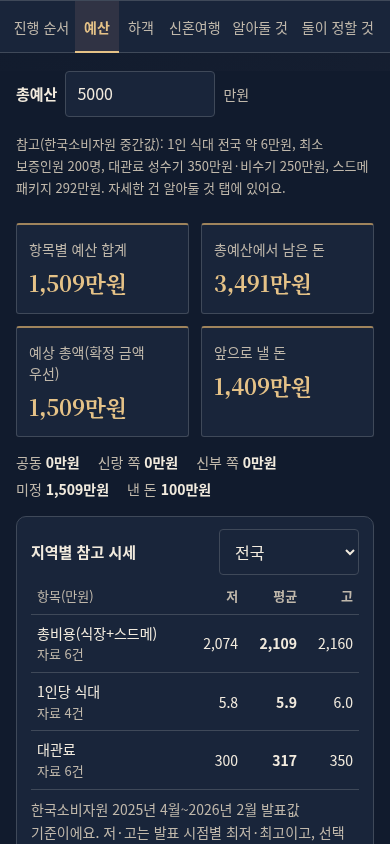
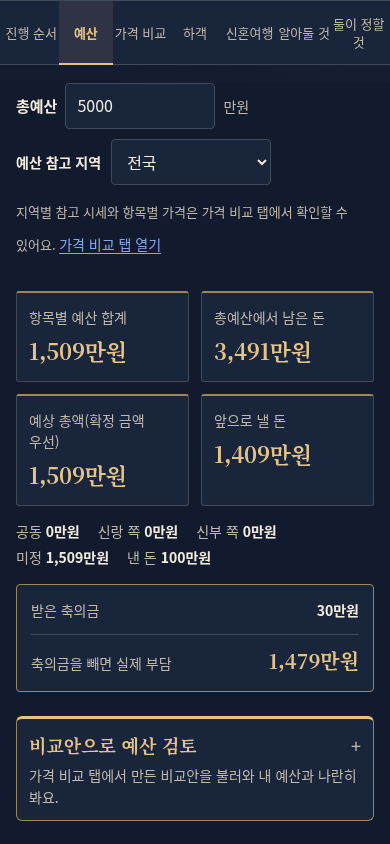
Polish price plan and budget UI for mobile

diff --git a/index.html b/index.html
@@ -271,14 +271,14 @@ select{width:auto;min-width:140px}
 .price-builder{margin:18px 0 22px;padding:14px;border:1px solid var(--gold-line);border-top:3px solid var(--gold);border-radius:6px;background:var(--surface)}
 .price-builder-head{display:flex;align-items:flex-start;justify-content:space-between;gap:12px}
 .price-builder h3{font-family:var(--serif);font-size:18px;margin:0}
-.price-eyebrow{display:block;margin-bottom:3px;color:var(--gold);font-size:11px;font-weight:700;letter-spacing:.12em}
+.price-eyebrow{display:block;margin-bottom:3px;color:var(--gold);font-size:13px;font-weight:700;letter-spacing:.1em}
 .price-builder-intro{margin:4px 0 0;color:var(--muted);font-size:13px;line-height:1.5}
 .price-group-tabs{display:grid;grid-template-columns:repeat(auto-fit,minmax(150px,1fr));gap:8px;margin:14px 0 8px}
 .price-group-tab{appearance:none;display:grid;align-content:center;gap:3px;min-width:0;min-height:68px;padding:8px 11px;border:1px solid var(--line);border-radius:8px;background:var(--surface);color:var(--ink);text-align:left;cursor:pointer}
 .price-group-tab[aria-pressed="true"]{border-color:var(--gold);background:var(--gold-soft)}
 .price-group-tab-head{display:flex;align-items:center;justify-content:space-between;gap:8px;min-width:0}
 .price-group-tab-head b{min-width:0;overflow:hidden;text-overflow:ellipsis;white-space:nowrap;font-size:13px}
-.price-group-tab-head small{flex:none;color:var(--muted);font-size:12px}
+.price-group-tab-head small{flex:none;color:var(--muted);font-size:13px}
 .price-group-tab strong{font-size:14px;font-variant-numeric:tabular-nums;line-height:1.35}
 .price-group-edit{display:flex;align-items:end;gap:8px;padding:10px 0;border-top:1px solid var(--line)}
 .price-group-edit .field{flex:1;min-width:0}
@@ -510,7 +510,7 @@ html{scroll-padding-top:calc(env(safe-area-inset-top,0px) + var(--tabs-height) +
 }
 @media (max-width:380px){.tab{font-size:13px}.tabs .wrap{padding-inline:4px}}
 @media (max-width:359px){.phase-head{padding-left:44px}.sum .v{font-size:22px}}
-@media (max-width:430px){.tabs .wrap{grid-template-columns:repeat(7,minmax(44px,1fr));padding-inline:4px}.tab{padding:6px 0 5px;font-size:clamp(10px,2.8vw,13px)}}
+@media (max-width:430px){.tabs .wrap{grid-template-columns:repeat(7,minmax(44px,1fr));padding-inline:4px}.tab{padding:6px 0 5px;font-size:13px;overflow-wrap:normal}}
 @media (max-width:380px){.price-builder{padding:12px}.price-builder-head{display:block}.price-builder-total{text-align:left;margin-top:8px}.price-builder-total span,.price-builder-total strong{display:inline-block;margin-right:6px}}
 @media (prefers-reduced-motion:reduce){html{scroll-behavior:auto}.strand i{transition:none}}
 
@@ -588,6 +588,122 @@ body{background:linear-gradient(155deg,var(--paper),var(--blush)) fixed;backgrou
 input[type=date],input[type=text],textarea,select{border-radius:4px}
 .calc,.calcval{border-radius:4px}
 @media (max-width:359px){.invitation{padding-inline:18px}.names{letter-spacing:0}.invitation .couple{margin-bottom:18px}.sum{padding-inline:10px}.sum .v{font-size:20px}.when{font-size:14px}}
+/* Price planning: the active plan leads; tools and references stay visible below it. */
+.price-builder{padding:0;border:0;background:none;display:grid;gap:16px}
+.price-builder-main{padding:16px;border:1px solid var(--gold-line);border-top:3px solid var(--gold);border-radius:5px;background:var(--surface)}
+.price-builder h3{font-size:22px;color:var(--gold)}
+.price-group-tabs{grid-template-columns:repeat(auto-fit,minmax(110px,1fr));margin:16px 0 12px}
+.price-group-tab{border-radius:4px;padding:10px;gap:6px}
+.price-group-tab-head{flex-wrap:wrap;gap:2px 8px}
+.price-group-tab-head b{white-space:normal;overflow:visible;font-size:14px}
+.price-group-tab strong{font-size:15px}
+.price-group-edit{padding:12px 0 0}
+.price-group-delete{font-size:13px;color:var(--muted)}
+.price-group-summary{border-radius:4px;padding:12px;gap:6px}
+.price-builder-main .price-group-summary>div:nth-child(2){padding-bottom:6px;margin-bottom:2px;border-bottom:1px solid var(--gold-line)}
+.price-builder-main .price-group-summary>div:nth-child(2) strong{font-family:var(--serif);font-size:21px;color:var(--gold)}
+.price-group-summary>div{display:grid;grid-template-columns:minmax(0,1fr) minmax(0,1fr);gap:8px}
+.price-group-summary strong{font-variant-numeric:tabular-nums;overflow-wrap:normal}
+.price-group-summary .pr-diff{justify-self:end}
+.price-builder-tools{display:grid;gap:10px;min-width:0}
+.price-builder-intro{margin:0;font-size:13px;line-height:1.75}
+.price-group-add{padding:12px 0;border-block:1px solid var(--line)}
+.price-builder-tools>.price-note,.price-builder-tools>.price-builder-empty{margin:0}
+/* These utility disclosures deliberately override the knowledge-card spacing. */
+details:is(.price-picked-details,.price-custom,.price-compare,.trash),
+.know details:is(.price-picked-details,.price-custom,.price-compare,.trash){padding:0;margin:0;border:1px solid var(--line);border-radius:5px;background:var(--surface)}
+.panel>details.trash{margin-top:24px}
+details:is(.price-picked-details,.price-custom,.price-compare,.trash)>summary{display:flex;align-items:center;justify-content:space-between;gap:12px;padding:12px;min-height:48px;list-style:none;color:var(--ink);font-size:14px;font-weight:600;text-decoration:none;line-height:1.6;cursor:pointer}
+details:is(.price-picked-details,.price-custom,.price-compare,.trash)>summary::-webkit-details-marker{display:none}
+details:is(.price-picked-details,.price-custom,.price-compare,.trash)>summary::after{content:"+";flex:none;color:var(--gold);font-size:18px;font-weight:400}
+details:is(.price-picked-details,.price-custom,.price-compare,.trash)[open]>summary{border-bottom:1px solid var(--line)}
+details:is(.price-picked-details,.price-custom,.price-compare,.trash)[open]>summary::after{content:"−"}
+details:is(.price-picked-details,.price-custom,.price-compare,.trash)>:not(summary){margin:0;padding:12px}
+.price-builder .price-picked,.price-builder .price-custom-list,.know .trash-list{padding:0 12px}
+.price-picked li{grid-template-columns:minmax(0,1fr) auto;gap:4px 8px;padding:12px 0}
+.price-picked li>span{grid-column:1/-1}
+.price-picked li>strong{text-align:left;max-width:none}
+.price-custom-item,.price-custom-add{gap:12px;grid-template-columns:minmax(0,1fr)}
+.price-custom-item>*,.price-custom-add>*{grid-column:1/-1}
+.price-custom-item .link{justify-self:end}
+.price-custom-item select,.price-custom-add select{font-size:14px;padding-inline:8px}
+.trash-list li,.know .trash-list li{padding-block:8px}
+.trash-list li:last-child,.price-picked li:last-child{border-bottom:0}
+.trash-list small{display:block}
+.trash-list button{flex:none}
+/* A checked box and gold edge mean included; neutral rows are available to add. */
+.price-pick-in,.price-pick.on .price-pick-in{display:grid;grid-template-columns:minmax(0,1fr);gap:8px;padding:8px 10px 12px;border:1px solid var(--line);border-radius:4px;background:var(--surface)}
+.price-pick.on .price-pick-in{border-color:var(--gold-line);border-left:3px solid var(--gold)}
+.price-pick .price-select-button{width:100%;padding:0;gap:10px;font-weight:600}
+.price-pick-amt{margin:0;text-align:left;font-size:15px;line-height:1.7}
+.price-mine{padding:10px;border:1px solid var(--gold-line);border-radius:4px;background:var(--paper);color:var(--gold);font-weight:600}
+.price-mine input{color:var(--ink);font-weight:600;border-color:var(--gold-line);background:var(--surface);font-variant-numeric:tabular-nums}
+.price-mine input::placeholder{font-weight:400}
+.price-pick-src{margin:0;font-size:13px;line-height:1.7}
+.price-extra-list .price-pick.on .price-mine{grid-row:3}
+.price-extra-list .price-pick.on .price-pick-src{grid-row:4}
+.price-extra-to{display:block;color:var(--muted)}
+.price-refs{margin:4px 0 0;padding-top:12px;border-top:1px solid var(--line)}
+.price-refs-title{color:var(--muted);line-height:1.7}
+.price-refs-title small{display:block}
+.know .price-ref-list{border-top:0}
+.know .price-ref-list li,.know .price-ref-list li.used{grid-template-columns:minmax(0,1fr);gap:4px;padding:10px 0;border-left:0;background:none}
+.price-ref-list strong{text-align:left;font-size:14px;font-weight:500}
+.price-ref-name{font-size:13px;color:var(--muted)}
+.price-ref-list small{font-size:13px;line-height:1.6}
+.price-badge,.price-ref-name em{display:inline-block;padding:2px 7px;border:1px solid var(--line);border-radius:4px;background:var(--paper);color:var(--muted);font-size:13px;font-style:normal;font-weight:500;line-height:1.5;vertical-align:baseline}
+.price-badge.direct,.price-ref-name em.price-ref-base{color:var(--gold);border-color:var(--gold-line);background:var(--gold-soft)}
+.price-ref-name em:not(.price-ref-base){color:var(--chung);border-color:var(--chung);background:var(--chung-soft)}
+/* Status shape and placement stay the same for amounts, ranges, and missing values. */
+.price-state,.pr-row-diff,.pr-diff{display:inline-block;padding:3px 8px;border:1px solid var(--line);border-radius:4px;background:var(--paper);font-size:13px;font-weight:500;line-height:1.6;color:var(--muted);font-variant-numeric:tabular-nums}
+.pr-row-diff.over,.pr-diff.over{color:var(--hong);border-color:var(--hong);background:var(--surface)}
+.pr-row-diff.room,.pr-diff.room{color:var(--chung);border-color:var(--chung);background:var(--surface)}
+.pr-row-diff.even,.pr-diff.even,.pr-row-diff.mid,.pr-diff.mid{color:var(--gold);border-color:var(--gold-line);background:var(--gold-soft)}
+.plan-review{padding-inline:12px}
+.pr-body{gap:16px}
+.pr-row>summary{grid-template-columns:minmax(0,1fr);gap:8px;padding:12px}
+.pr-row-name{padding-right:24px;font-size:15px;line-height:1.7}
+.pr-row-diff{justify-self:start;text-align:left}
+.pr-row-nums{display:grid;gap:4px;grid-column:1;line-height:1.6}
+.pr-row-nums>span:not(.sr){display:grid;grid-template-columns:4.5em minmax(0,1fr);gap:8px}
+.pr-row-nums strong{text-align:right;color:var(--ink);font-weight:500;overflow-wrap:normal}
+.pr-lines li{display:grid;gap:4px}
+.pr-lines strong{max-width:none;text-align:right}
+.pr-pick>summary{flex-wrap:wrap;padding-block:10px;gap:2px 10px}
+.pr-pick>summary span{flex-basis:100%}
+.pr-sum>div{grid-template-columns:minmax(0,1fr) minmax(0,1fr)}
+.pr-sum .pr-diff{justify-self:end}
+.pr-row-body .detail-actions>.btn{width:100%;line-height:1.6}
+/* Backup and confirmation use the same paper, fine borders, and numeric alignment. */
+#backupSec{border:1px solid var(--gold-line);border-top:3px solid var(--gold);border-radius:4px;padding:14px 12px;gap:14px;background:var(--paper)}
+#backupSec h3{font-family:var(--serif);color:var(--gold);font-size:18px}
+#backupSec .dlg-actions{display:grid;grid-template-columns:repeat(2,minmax(0,1fr))}
+#backupSec .dlg-actions:last-of-type{grid-template-columns:minmax(0,1fr)}
+#backupSec .btn{padding-inline:8px;line-height:1.6}
+#backupSec textarea{font-size:16px;min-height:110px}
+#backupSec input[type=file]{color:var(--muted);font-size:13px}
+#backupSec input[type=file]::file-selector-button{font:inherit;min-height:44px;margin-right:8px;padding:8px;border:1px solid var(--gold-line);border-radius:4px;background:var(--surface);color:var(--ink);cursor:pointer}
+.qitem .price-confirm{border-color:var(--gold-line);background:var(--paper);padding:12px}
+.q-changes{list-style:none;padding:0;margin:12px 0;font-variant-numeric:tabular-nums}
+.q-changes li{display:grid;grid-template-columns:minmax(0,1fr) auto;gap:4px 8px;padding:10px 0;border-block:1px solid var(--line)}
+.q-changes li+li{border-top:0}
+.q-changes li>span:first-child{grid-column:1/-1;color:var(--muted)}
+.q-change-arrow{color:var(--gold)}
+.q-changes strong{text-align:right;overflow-wrap:normal}
+.who.net{display:grid;grid-template-columns:minmax(0,1fr);gap:12px;margin-top:16px;padding:14px;border:1px solid var(--gold-line);border-radius:4px;background:var(--surface)}
+.who.net>span{display:flex;justify-content:space-between;align-items:baseline;gap:12px}
+.who.net>span:last-child{padding-top:10px;border-top:1px solid var(--line)}
+.who.net b{flex:none;font-variant-numeric:tabular-nums}
+.who.net>span:last-child b{font-family:var(--serif);font-size:20px;color:var(--gold)}
+@media (max-width:380px){
+  .price-builder{padding:0}.price-builder-main{padding:12px}
+  .price-group-add{grid-template-columns:minmax(0,1fr)}
+  .price-group-add .btn{justify-self:end}
+  .pr-row-body .bedit.two{grid-template-columns:minmax(0,1fr)}
+  .price-mine{padding:8px}
+  .price-mine input{font-size:15px;padding-inline:8px}
+  #backupSec{padding-inline:10px}
+}
 </style>
 </head>
 <body>
@@ -609,7 +725,7 @@ input[type=date],input[type=text],textarea,select{border-radius:4px}
       <button class="tab" role="tab" id="tab-budget" aria-controls="panel-budget" data-tab="budget" type="button">예산</button>
       <button class="tab" role="tab" id="tab-price" aria-controls="panel-price" data-tab="price" type="button">가격 비교</button>
       <button class="tab" role="tab" id="tab-guest" aria-controls="panel-guest" data-tab="guest" type="button">하객</button>
-      <button class="tab" role="tab" id="tab-honey" aria-controls="panel-honey" data-tab="honey" type="button">신혼여행</button>
+      <button class="tab" role="tab" id="tab-honey" aria-controls="panel-honey" data-tab="honey" type="button">신혼<wbr>여행</button>
       <button class="tab" role="tab" id="tab-know" aria-controls="panel-know" data-tab="know" type="button">알아둘 것</button>
       <button class="tab" role="tab" id="tab-talk" aria-controls="panel-talk" data-tab="talk" type="button">둘이 정할 것</button>
     </div>
@@ -1810,7 +1926,7 @@ function priceExtraItemHTML(it, group){
   var on = !!group.items[it.id], own = priceOwn(group, it);
   return '<li class="price-pick'+(on ? ' on' : '')+'"><div class="price-pick-in">' +
     '<button class="price-select-button" type="button" role="checkbox" aria-checked="'+(on?'true':'false')+'" aria-label="'+esc(group.name)+'에 '+esc(it.name)+' 담기" data-act="price-toggle" data-id="'+it.id+'" data-group="'+group.id+'" data-fk="price-select-'+it.id+'"'+dis()+'><span class="price-select-icon" aria-hidden="true"></span><span>'+esc(it.name)+' 담기</span></button>' +
-    (on ? '<strong class="price-pick-amt">'+(own != null ? '내 금액 '+fmtMan(own) : '금액 미입력')+'</strong>' : '') +
+    (on ? '<strong class="price-pick-amt">'+(own != null ? '<span class="price-badge direct">내 금액</span> '+fmtMan(own) : '<span class="price-state none">금액 미입력</span>')+'</strong>' : '') +
     '<p class="price-pick-src">'+esc(it.note)+' <span class="price-extra-to">예산: '+esc(it.budget.map(budgetName).join(' · '))+'</span></p>' +
     (on ? '<label class="field price-mine">이 비교안 금액(만원)<input type="text" inputmode="numeric" value="'+(own != null ? own : '')+'" placeholder="견적이나 예상 금액" data-price-mine="'+it.id+'" data-group="'+group.id+'" data-fk="price-mine-'+it.id+'"'+dis()+'></label>' : '') +
     '</div></li>';
@@ -1860,7 +1976,7 @@ function pricePickRow(item, group, region, basis){
   if (line) {
     var own = priceOwn(group, item), hint = item.perHead ? Math.round(line.refUnit * 10000).toLocaleString('ko-KR')
       : (Math.round(line.ref.low) === Math.round(line.ref.high) ? Math.round(line.ref.low) : Math.round(line.ref.low)+'~'+Math.round(line.ref.high));
-    h += '<strong class="price-pick-amt">'+(line.mine ? '내 금액 ' : '참고 ')+esc(priceAmountText(line))+'</strong>' +
+    h += '<strong class="price-pick-amt">'+(line.mine ? '<span class="price-badge direct">내 금액</span> ' : '<span class="price-badge">참고</span> ')+esc(priceAmountText(line))+'</strong>' +
       '<label class="field price-mine">'+(item.perHead ? '이 비교안 1인 금액(원)' : '이 비교안 금액(만원)')+'<input type="text" inputmode="numeric" value="'+(own != null ? own : '')+'" placeholder="참고 '+hint+'" data-price-mine="'+item.id+'" data-group="'+group.id+'" data-fk="price-mine-'+item.id+'"'+dis()+'></label>';
     // 참고 시세는 고르는 칸이 아니라 펼쳐 보여 줘요. 금액을 비우면 지역에 맞춰 정해진 '기준' 값으로 계산해요.
     var ids = priceOptionIds(item, region, line.opt.id);
@@ -1921,24 +2037,26 @@ function pricePlanHTML(){
     return '<li><span><b>'+esc(PRICE_SECS[line.item.sec])+' · '+esc(line.item.name)+'</b><small>'+(line.mine ? '직접 넣은 금액'+(line.ref ? ' · 참고 시세 '+esc(priceRefText(line)) : '') : line.opt ? '참고 시세 · '+esc(priceOptText(line.opt, region)) : '금액을 넣어 주세요')+'</small></span><strong>'+esc(priceAmountText(line))+'</strong><button class="price-picked-remove" type="button" aria-label="'+esc(active.name)+'에서 '+esc(line.item.name)+' 빼기" data-act="'+(line.item.custom ? 'price-custom-del' : 'price-remove')+'" data-id="'+line.item.id+'" data-group="'+active.id+'" data-fk="price-remove-'+line.item.id+'"'+dis()+'>빼기</button></li>';
   }).join('');
   if (ui.openKnow['price-picked'] == null) ui.openKnow['price-picked'] = false;
-  return '<section class="price-builder" aria-labelledby="price-builder-title"><div class="price-builder-head"><div><span class="price-eyebrow">MY PRICE PLAN</span><h3 id="price-builder-title">비교안 만들기</h3>' +
-    '<p class="price-builder-intro">아래 가격표에서 항목을 담고, 받은 견적이나 예상 금액을 직접 넣으세요. 비워 둔 항목은 참고 시세로 계산해요. 참고 시세는 한국소비자원 조사의 중간값·평균이라 실제 견적은 업체마다 달라요. 부케·축가 사례처럼 가격표에 없는 비용은 아래 ‘그 밖에 드는 비용’에서 담거나 여기서 직접 추가하세요.</p></div></div>' +
+  return '<section class="price-builder" aria-labelledby="price-builder-title"><div class="price-builder-main"><div class="price-builder-head"><div><span class="price-eyebrow">MY PRICE PLAN</span><h3 id="price-builder-title">비교안 만들기</h3>' +
+    '</div></div>' +
     '<div class="price-group-tabs" role="group" aria-label="비교안 선택">'+tabs+'</div>' +
     '<div class="price-group-edit"><label class="field">비교안 이름<input type="text" value="'+esc(active.rawName)+'" maxlength="30" placeholder="'+esc(active.name)+'" data-price-group-name="'+active.id+'" data-fk="price-group-name-'+active.id+'"'+dis()+'></label>' +
     (ask ? '' : '<button class="link price-group-delete" type="button" data-act="price-group-delete-ask" data-id="'+active.id+'" data-fk="price-group-delete-'+active.id+'"'+(groups.length === 1?' disabled':'')+dis()+'>비교안 삭제</button>') + '</div>' +
     (ask ? '<div class="price-confirm" role="group" aria-label="비교안 삭제 확인"><p>‘'+esc(active.name)+'’ 비교안을 지울까요? 담은 항목도 함께 지워져요.</p><div class="detail-actions">' +
       '<button class="btn" type="button" data-act="price-group-delete-cancel" data-fk="price-group-delete-cancel">취소</button>' +
       '<button class="btn primary" type="button" data-act="price-group-delete" data-id="'+active.id+'" data-fk="price-group-delete-yes"'+dis()+'>지우기</button></div></div>' : '') +
-    '<div class="price-group-add" id="priceGroupAddForm"><label class="sr" for="priceGroupAddName">새 비교안 이름</label><input type="text" id="priceGroupAddName" maxlength="30" placeholder="예: 서울 예식안" data-fk="price-group-add-name"'+dis()+'><button class="btn" type="button" data-act="price-group-add" data-fk="price-group-add"'+dis()+'>비교안 추가</button></div>' +
     '<div class="price-group-summary"><div><span>담긴 항목</span><strong>'+chosen.length+'개</strong></div><div><span>비교안 합계</span><strong>'+fmtPriceRange(total)+'</strong></div>' +
       (chosen.length ? '<div><span>직접 넣은 금액 / 참고 시세</span><strong>'+mineN+'개 / '+(chosen.length - mineN - noPriceN)+'개</strong></div>' : '') +
-      (noPriceN ? '<div><span>금액 미입력 (합계에서 빠짐)</span><strong class="pr-diff over">'+noPriceN+'개</strong></div>' : '') + '</div>' +
+      (noPriceN ? '<div><span>금액 미입력 (합계에서 빠짐)</span><strong class="pr-diff none">'+noPriceN+'개</strong></div>' : '') + '</div>' +
+    '</div><div class="price-builder-tools">' +
+    '<p class="price-builder-intro">아래 가격표에서 항목을 담고, 받은 견적이나 예상 금액을 직접 넣으세요. 비워 둔 항목은 참고 시세로 계산해요. 참고 시세는 한국소비자원 조사의 중간값·평균이라 실제 견적은 업체마다 달라요. 부케·축가 사례처럼 가격표에 없는 비용은 아래 ‘그 밖에 드는 비용’에서 담거나 여기서 직접 추가하세요.</p>' +
+    '<div class="price-group-add" id="priceGroupAddForm"><label class="sr" for="priceGroupAddName">새 비교안 이름</label><input type="text" id="priceGroupAddName" maxlength="30" placeholder="예: 서울 예식안" data-fk="price-group-add-name"'+dis()+'><button class="btn" type="button" data-act="price-group-add" data-fk="price-group-add"'+dis()+'>비교안 추가</button></div>' +
     priceNotesHTML(active, chosen, region, 'price') + priceCustomHTML(active) +
     (chosen.length ? '<details class="price-picked-details" data-k="price-picked"'+(ui.openKnow['price-picked'] ? ' open' : '')+'><summary>담긴 항목 보기 ('+chosen.length+')</summary><ul class="price-picked">'+rowsHTML+'</ul></details>' : '<p class="price-builder-empty">아래 가격표의 항목마다 있는 ‘담기’를 누르면 이 비교안에 들어가요. 담은 뒤 받은 금액을 직접 넣으세요.</p>') +
     priceCompareHTML(groups, active.id) +
     trashHTML('price', '지운 비교안·직접 추가 항목', deletedOf((state.pricePlan || {}).groups, 'name', 'plan', '비교안')
       .concat(deletedOf((((state.pricePlan || {}).groups || {})[active.id] || {}).custom, 'name', 'pcustom', active.name+'의 직접 추가 항목').map(function(e){ e.group = active.id; return e; }))) +
-    '</section>';
+    '</div></section>';
 }
 function cmpRow(t, pre, post){
   return '<div class="cmp-row"><h4>'+t+'</h4><p class="pre"><span class="tag">신고 전</span> '+pre+'</p><p class="post"><span class="tag">신고 후</span> '+post+'</p></div>';
@@ -2247,7 +2365,7 @@ function planTargetHTML(t){
   var names = t.rows.map(function(r){ return r.name; }).join(' · ');
   var h = '<li><details class="pr-row" data-k="'+k+'"'+(open ? ' open' : '')+'><summary><span class="pr-row-name">'+esc(names)+(t.rows.some(function(r){ return r.hidden; }) ? ' <small>(예산에서 숨김)</small>' : '')+'</span>' +
     '<span class="pr-row-diff '+(d ? d.cls : 'none')+'">'+(d ? d.text : (t.priced ? '예산 미입력' : '금액 미입력'))+'</span>' +
-    '<span class="pr-row-nums">'+(t.allRef ? '참고 ' : '비교안 ')+fmtPriceRange(t.ref)+(t.priced ? '' : ' + 미입력')+' · 내 예산 '+(t.budgetDone ? fmtMan(t.mine) : (t.mine ? fmtMan(t.mine)+'(일부)' : '-'))+'</span></summary><div class="pr-row-body">';
+    '<span class="pr-row-nums"><span><span>'+(t.allRef ? '참고 ' : '비교안 ')+'</span><strong>'+fmtPriceRange(t.ref)+(t.priced ? '' : ' + 미입력')+'</strong></span><span class="sr"> · </span><span><span>내 예산 </span><strong>'+(t.budgetDone ? fmtMan(t.mine) : (t.mine ? fmtMan(t.mine)+'(일부)' : '-'))+'</strong></span></span></summary><div class="pr-row-body">';
   h += '<ul class="pr-lines">' + t.lines.map(function(l){ return '<li><span>'+esc(PRICE_SECS[l.item.sec])+' · '+esc(l.item.name)+'<small>'+(l.mine ? '직접 넣은 금액'+(l.ref ? ' · 참고 시세 '+esc(priceRefText(l)) : '') : l.opt ? '참고 시세 · '+esc(l.opt.label+' '+l.opt.value)+' · '+esc(l.opt.source) : '가격 비교 탭에서 금액을 넣어 주세요')+'</small></span><strong>'+esc(priceAmountText(l))+'</strong></li>'; }).join('') + '</ul>';
   if (t.lines.length > 1 && priceOverlaps(t.lines).length) h += '<p class="price-note">묶음 가격과 그 안에 든 항목이 함께 반영돼 시세가 겹칠 수 있어요.</p>';
   t.rows.forEach(function(r){
@@ -2291,7 +2409,7 @@ function planReviewHTML(){
     data.lines.map(function(l){
       var on = !!group.apply[l.item.id], to = l.item.budget.map(budgetName).join(' · ');
       return '<li><button class="price-select-button pr-apply" type="button" role="checkbox" aria-checked="'+(on ? 'true' : 'false')+'" data-act="b-plan-apply" data-group="'+group.id+'" data-id="'+l.item.id+'" data-fk="pr-apply-'+l.item.id+'"'+dis()+'><span class="price-select-icon" aria-hidden="true"></span>' +
-        '<span><span class="sr">예산에 반영: </span><b>'+esc(PRICE_SECS[l.item.sec])+' · '+esc(l.item.name)+'</b><small>'+esc(priceAmountText(l))+(l.mine ? ' (직접)' : l.noPrice ? '' : ' (참고)')+' → '+esc(to)+'</small></span></button></li>';
+        '<span><span class="sr">예산에 반영: </span><b>'+esc(PRICE_SECS[l.item.sec])+' · '+esc(l.item.name)+'</b><small>'+esc(priceAmountText(l))+(l.mine ? ' <span class="price-badge direct">(직접)</span>' : l.noPrice ? '' : ' <span class="price-badge">(참고)</span>')+' → '+esc(to)+'</small></span></button></li>';
     }).join('') + '</ul>' +
     (Store.readOnly ? '' : '<div class="detail-actions"><button class="btn" type="button" data-act="b-plan-apply-all" data-group="'+group.id+'" data-v="1">모두 반영</button><button class="btn" type="button" data-act="b-plan-apply-all" data-group="'+group.id+'" data-v="0">모두 빼기</button>' +
       '<button class="link" type="button" data-act="goto-price" data-group="'+group.id+'">가격 비교에서 고치기</button></div>') + '</details>';
@@ -2325,7 +2443,7 @@ function quoteApplyChanges(q){
 }
 function quoteConfirmHTML(q){
   return '<div class="price-confirm" role="group" aria-label="예산 바꾸기 확인"><p>이 견적을 넣으면 예산이 이렇게 바뀌어요.</p><ul class="q-changes">' +
-    quoteApplyChanges(q).map(function(c){ return '<li>'+esc(c)+'</li>'; }).join('') + '</ul><p class="tip">확정 금액과 낸 돈은 그대로예요.</p>' +
+    quoteApplyChanges(q).map(function(c){ var parts = c.split(' → '); return '<li><span>'+esc(parts[0])+'</span><span class="q-change-arrow"> → </span><strong>'+esc(parts[1])+'</strong></li>'; }).join('') + '</ul><p class="tip">확정 금액과 낸 돈은 그대로예요.</p>' +
     '<div class="detail-actions"><button class="btn" type="button" data-act="q-apply-cancel" data-id="'+q.id+'">취소</button><button class="btn primary" type="button" data-act="q-apply-yes" data-id="'+q.id+'">바꾸기</button></div></div>';
 }
 function quoteHTML(){

diff --git a/docs/screenshots/README.md b/docs/screenshots/README.md
@@ -1,12 +1,15 @@
-# v24 디자인 전후 비교
+# 가격 비교·예산 UI 전후 비교
 
-- 기준: 최신 main `8f253f3`, 변경 후: `design/wedding-ceremony`.
-- 390 × 844px, Chromium, 한국어, Asia/Seoul, 라이트·다크 각 5장(총 20장).
-- `hero`: 첫 화면. `timeline`, `budget`, `guest`, `know`: 해당 탭을 선택하고 탭 메뉴까지 스크롤한 화면.
-- 동일한 시험 데이터(준호·민지, 2027-05-08 12:30)와 고정 시각(2026-10-06 12:00 KST)을 사용해 D-day와 내용이 동일하다.
-- Google Fonts 요청은 기존 시험 도우미가 비워 오프라인 대체 명조·고딕으로 촬영한다. 실제 앱의 Google Fonts Hahmlet·IBM Plex Sans KR 설정은 유지한다.
+- 기준: 최신 main `e05ed3c`, 변경 후: `design/price-budget-ui`.
+- 390 × 844px, Chromium, 한국어, Asia/Seoul, 라이트·다크 각 15장. 전후 총 60장.
+- `hero`, `timeline`, `budget`, `guest`, `know`는 기존 시험 데이터(준호·민지, 2027-05-08 12:30)를 사용한다. 첫 화면은 맨 위, 탭 화면은 탭 메뉴까지 스크롤해 촬영한다.
+- 추가 화면은 `tests/app.spec.cjs`의 `PLAN_SEED`와 같은 비교안 두 개를 바탕으로 한 `priceBudgetSeed()`를 쓴다. 서울 강남 지역, 직접 금액과 참고 시세, 미입력 금액, 직접 추가 항목, 지운 항목을 함께 넣는다. 두 단계 모두 같은 시드를 사용한다.
+- 예산 검토는 `budget.planGroup='pa'`로 비교안을 고르고 `apply`를 설정한 상태다. 대관료 초과, 식대 일치, 스드메 여유, 예산 미입력, 금액 미입력을 함께 보여 준다. 예산에 금액을 자동으로 덮어쓰는 조작은 하지 않는다.
+- `price-plan`은 비교안 카드 위쪽, `price-tools`는 같은 비교안의 네 가지 접기 도구, `price-custom`은 직접 추가를 펼친 화면이다. `price-pick`은 대관료 담기 줄, `price-extra`는 꽃·부케 분류를 펼친 화면이다.
+- `budget-plan`과 `budget-plan-rows`는 예산 검토 상단과 항목별 목록을 각각 보여 준다. `quote-confirm`은 기존 예산과 다른 견적을 넣기 전에 나타나는 확인 상태다. `backup`은 공유 창을 열고 백업 칸으로 스크롤한 상태다.
+- 고정 시각은 2026-10-06 12:00 KST. Google Fonts 요청은 기존 시험 도우미가 비워 오프라인 대체 명조·고딕으로 촬영한다. 실제 앱의 Google Fonts Hahmlet·IBM Plex Sans KR 설정은 유지한다.
 - 꽃잎 움직임은 촬영 시 비활성화한다. 동작 줄이기 설정과 애니메이션 속성은 별도 시험으로 확인한다.
-- 재현: `node tests/server.cjs` 실행 후 `npm run screenshots -- before`, `npm run screenshots -- after`.
+- 재현: `node tests/server.cjs` 실행 후 `npm run screenshots -- before`, `npm run screenshots -- after`. `before`는 작업 파일 대신 `git show main:index.html`을 사용한다.
 
 | 화면 | 라이트 전 | 라이트 후 | 다크 전 | 다크 후 |
 | --- | --- | --- | --- | --- |
@@ -15,3 +18,13 @@
 | 예산 | [전](before-light-budget.png) | [후](after-light-budget.png) | [전](before-dark-budget.png) | [후](after-dark-budget.png) |
 | 하객 | [전](before-light-guest.png) | [후](after-light-guest.png) | [전](before-dark-guest.png) | [후](after-dark-guest.png) |
 | 알아둘 것 | [전](before-light-know.png) | [후](after-light-know.png) | [전](before-dark-know.png) | [후](after-dark-know.png) |
+| 비교안 카드: 제목·입력·요약 | [전](before-light-price-plan.png) | [후](after-light-price-plan.png) | [전](before-dark-price-plan.png) | [후](after-dark-price-plan.png) |
+| 비교안: 담긴 항목·직접 추가·나란히 보기·지운 항목 | [전](before-light-price-tools.png) | [후](after-light-price-tools.png) | [전](before-dark-price-tools.png) | [후](after-dark-price-tools.png) |
+| 가격표에 없는 항목 직접 추가 | [전](before-light-price-custom.png) | [후](after-light-price-custom.png) | [전](before-dark-price-custom.png) | [후](after-dark-price-custom.png) |
+| 가격표 항목 담기·직접 금액·참고 시세 | [전](before-light-price-pick.png) | [후](after-light-price-pick.png) | [전](before-dark-price-pick.png) | [후](after-dark-price-pick.png) |
+| 그 밖에 드는 비용: 꽃·부케 | [전](before-light-price-extra.png) | [후](after-light-price-extra.png) | [전](before-dark-price-extra.png) | [후](after-dark-price-extra.png) |
+| 비교안으로 예산 검토: 선택·합계 | [전](before-light-budget-plan.png) | [후](after-light-budget-plan.png) | [전](before-dark-budget-plan.png) | [후](after-dark-budget-plan.png) |
+| 비교안으로 예산 검토: 항목별 금액·상태 | [전](before-light-budget-plan-rows.png) | [후](after-light-budget-plan-rows.png) | [전](before-dark-budget-plan-rows.png) | [후](after-dark-budget-plan-rows.png) |
+| 예산 요약·축의금을 뺀 실제 부담 | [전](before-light-budget-net.png) | [후](after-light-budget-net.png) | [전](before-dark-budget-net.png) | [후](after-dark-budget-net.png) |
+| 식장 견적: 예산 바꾸기 확인 | [전](before-light-quote-confirm.png) | [후](after-light-quote-confirm.png) | [전](before-dark-quote-confirm.png) | [후](after-dark-quote-confirm.png) |
+| 공유 창: 데이터 백업·옮기기 | [전](before-light-backup.png) | [후](after-light-backup.png) | [전](before-dark-backup.png) | [후](after-dark-backup.png) |

diff --git a/docs/CHANGELOG.md b/docs/CHANGELOG.md
@@ -1,5 +1,13 @@
 # 바뀐 내용
 
+## 가격 비교·예산 화면 정리 (Codex)
+- 비교안 선택·이름·합계는 핵심 카드에 모으고, 설명과 새 비교안 추가·접기 도구는 아래로 구분했어요. 기존 정보는 숨기지 않았어요.
+- 직접 추가·담긴 항목·나란히 보기·지운 항목의 접기 모양을 통일했어요. 담기는 체크와 금색 선으로 표시하고, 직접 금액 입력을 참고 시세보다 강조해요.
+- 예산 검토의 긴 항목명에 한 줄 폭을 주고, 비교안 금액과 내 예산은 같은 오른쪽 기준선에 맞췄어요. 초과·여유·일치·미입력 상태와 참고 배지의 모양을 정리했어요.
+- 320px 입력칸을 넓히고 탭과 수정 대상의 보조 글자를 13px 이상으로 맞췄어요. 탭 이름과 순서는 유지하며, 긴 이름은 같은 줄의 탭 버튼 안에서 두 줄로 표시해요.
+- 백업 칸, 식장 견적의 바꾸기 확인, 축의금을 뺀 실제 부담도 종이색·금색 선·명조 제목에 맞췄어요.
+- 화면 문구·기능·저장 구조·이벤트 표식·가격 데이터는 그대로예요. 390px 라이트·다크 전후 화면은 `docs/screenshots/README.md`에 모았어요.
+
 ## 백업·되살리기·빠른 화면 (Claude)
 - 데이터 백업·옮기기: 공유 창에서 입력한 내용 전체를 파일(`marry-me-backup-날짜.json`)로 저장하거나 글로 복사하고, 파일·글로 다시 가져와요. 가져오기 전에 백업 내용(하객·할 일·예산·비교안 수)을 보여 주고 한 번 더 눌러야 가져와요. 가져오기는 덮어쓰기만 하고 지금만 있는 항목은 지우지 않아요.
 - 지운 항목 되살리기: 진행 순서(직접 추가한 일), 예산(직접 추가한 항목·식장 견적), 하객, 가격 비교(비교안·직접 추가 항목) 아래에 ‘지운 ○○’ 목록과 되살리기 버튼을 두었어요.
